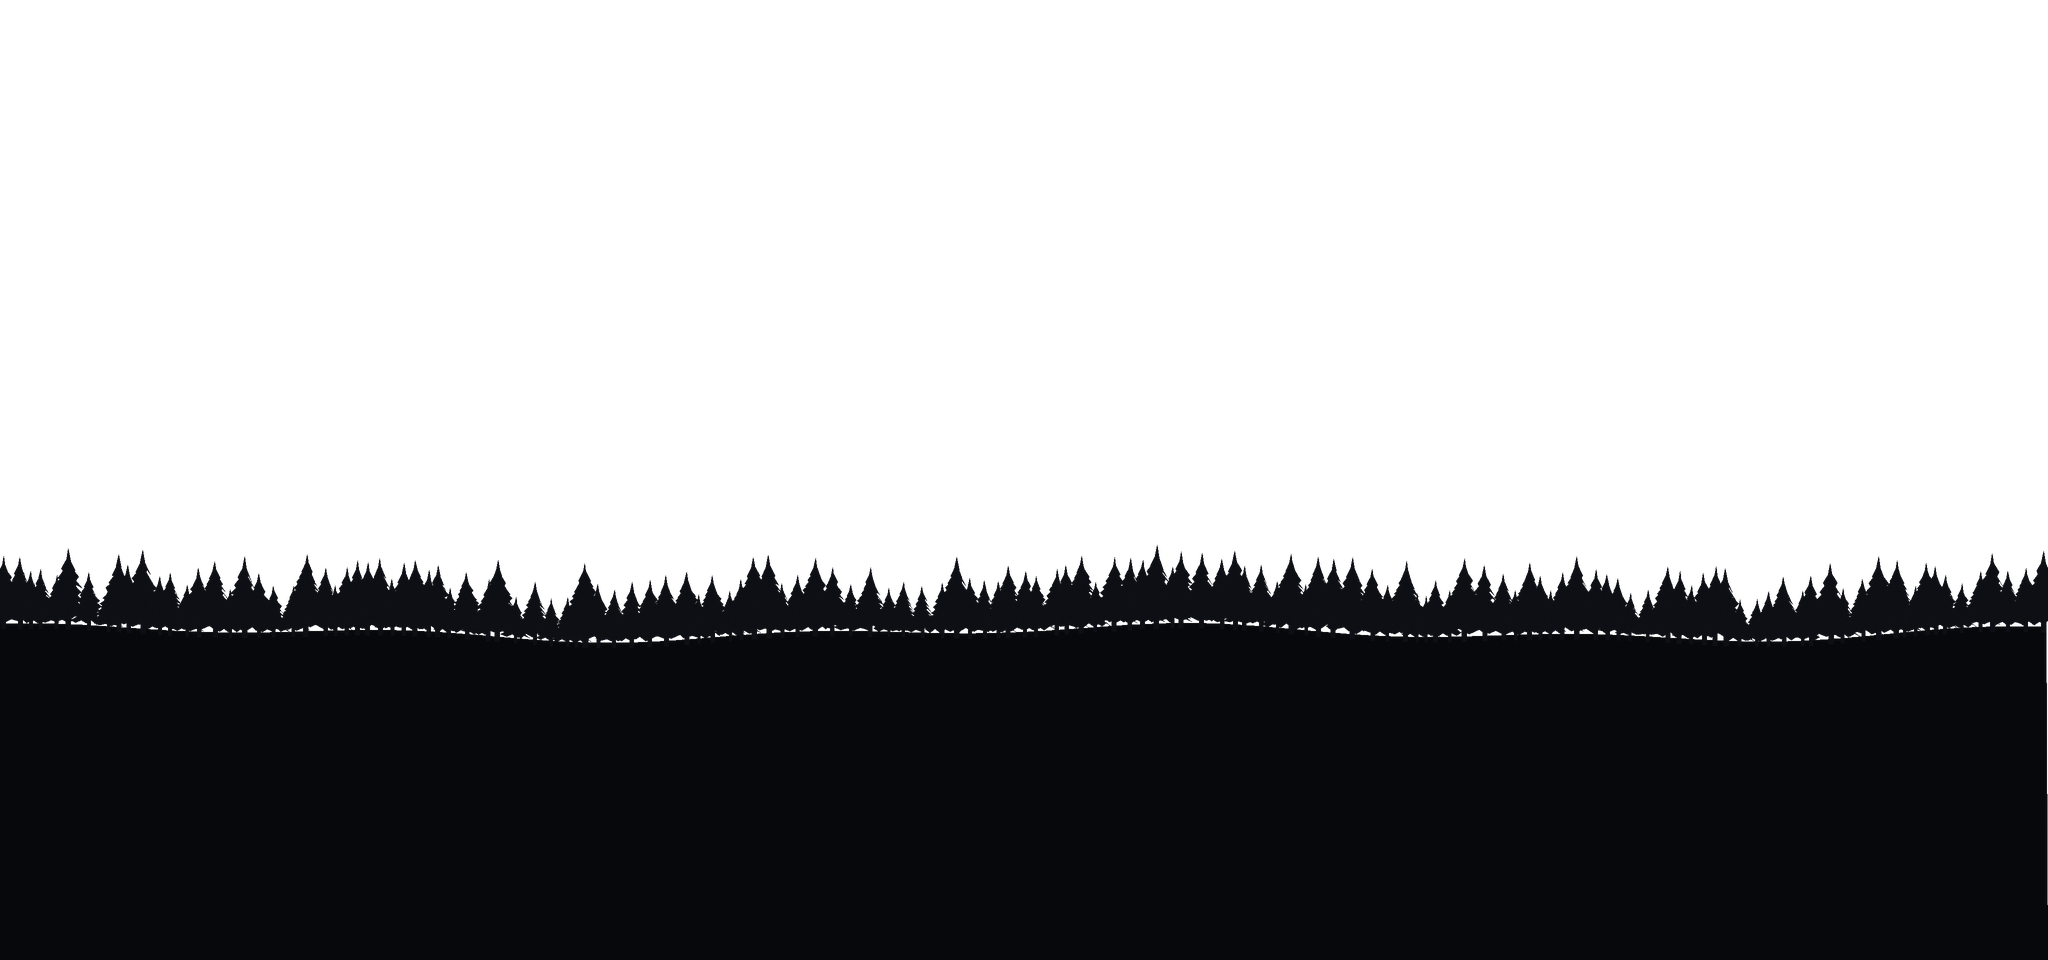
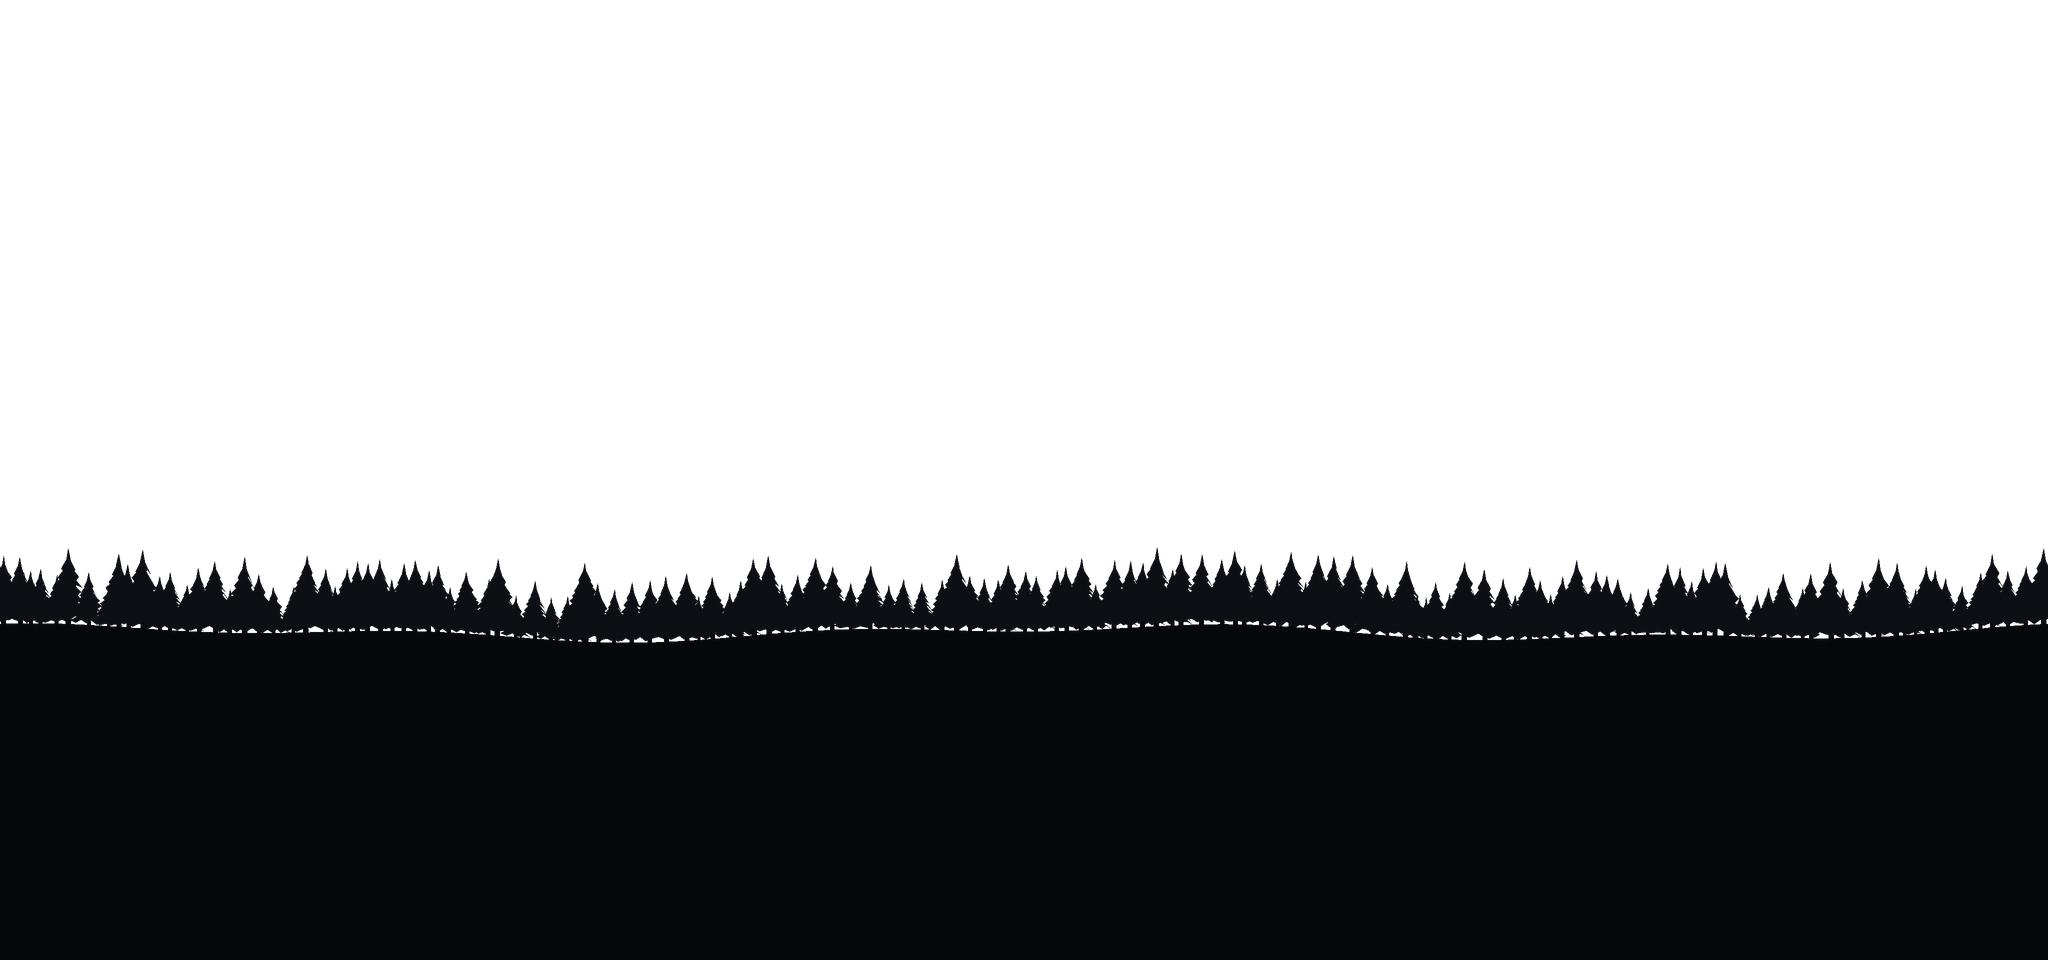
Tło HD: usunięta pionowa kreska na łączeniu i przerywana linia na podnóżu
- ostatnia kolumna tekstur grzbietów była półprzezroczysta (wypełnienie kończyło się przed brzegiem)
- linia podnóża okresowa (bez schodka na łączeniu powtórzeń)
- pnie w kolorze podnóża (bez jasnych kresek na linii podnóża przy pogodzie CLEAR)

diff --git a/prototype/tools/world_hd_backdrop.py b/prototype/tools/world_hd_backdrop.py
@@ -81,10 +81,11 @@ def sky():
     save_rgb(os.path.join(OUT, "sky.png"), np.clip(img, 0, 1))
 
 
-def pine(draw, x, base_y, h, col, rimcol, lean):
-    """Jeden świerk: pień + piętra opadających, postrzępionych gałęzi (współrzędne w pikselach supersamplingu)."""
+def pine(draw, x, base_y, h, col, rimcol, lean, trunk=None):
+    """Jeden świerk: pień + piętra opadających, postrzępionych gałęzi (współrzędne w pikselach supersamplingu).
+    Pień ma kolor podnóża (`trunk`), nie korony — jasne pnie na ciemnym podnóżu układały się w widoczną „przerywaną linię”."""
     tw = max(2.0, h * 0.035)
-    draw.rectangle([x - tw, base_y - h * 0.22, x + tw, base_y + 4], fill=col)
+    draw.rectangle([x - tw, base_y - h * 0.22, x + tw, base_y + 4], fill=trunk if trunk is not None else col)
     tiers = int(rng.integers(8, 13))
     for k in range(tiers):
         t = k / (tiers - 1)
@@ -109,6 +110,7 @@ def b8(c):
 
 def ridge(name, seed_off, base_frac, spacing, h_rng, col, rim, haze, ground=None):
     ground = b8(ground) if ground is not None else b8(col)       # wypełnienie pod linią drzew ciemniejsze niż korony — luki między pniami nie świecą
+    trunk = ground if ground != b8(col) else None
     col, rim = b8(col), b8(rim)
     big = Image.new("RGBA", (W * SS, H * SS), (0, 0, 0, 0))
     dr = ImageDraw.Draw(big)
@@ -116,8 +118,11 @@ def ridge(name, seed_off, base_frac, spacing, h_rng, col, rim, haze, ground=None
     r = np.random.default_rng(87 + seed_off)
     # podnóże: falująca masa
     xs = np.arange(W * SS)
-    hill = base - 6 * SS * np.sin(xs * 0.003 / SS * 2 + seed_off) - 4 * SS * np.sin(xs * 0.008 / SS * 2 + 1.3 * seed_off)
-    dr.polygon([(0, H * SS)] + [(int(x), int(hill[x])) for x in range(0, W * SS, 4)] + [(W * SS - 1, H * SS)], fill=ground)
+    # linia podnóża musi być okresowa (całkowita liczba fal na szerokość) — inaczej na łączeniu powtórzeń robi się schodek
+    ph = 2 * np.pi * xs / (W * SS)
+    hill = base - 6 * SS * np.sin(2 * ph + seed_off) - 4 * SS * np.sin(5 * ph + 1.3 * seed_off)
+    # wypełnienie do x = W·SS włącznie (poza obrazem), inaczej ostatnia kolumna tekstury wychodzi półprzezroczysta → pionowa kreska
+    dr.polygon([(0, H * SS)] + [(int(x), int(hill[min(x, W * SS - 1)])) for x in range(0, W * SS + 4, 4)] + [(W * SS + 4, H * SS)], fill=ground)
     x = float(r.integers(0, spacing))
     while x < W * SS:
         h = r.uniform(*h_rng) * SS
@@ -125,7 +130,7 @@ def ridge(name, seed_off, base_frac, spacing, h_rng, col, rim, haze, ground=None
         for ox in (-W * SS, 0, W * SS):                                      # zawijanie w poziomie
             if -h < x + ox < W * SS + h:
                 # lokalny RNG drzewa używa globalnego `rng` w pine(); ziarno ustala kolejność
-                pine(dr, x + ox, hill[int(np.clip(x, 0, W * SS - 1))] + 3 * SS, h, col, rim, lean)
+                pine(dr, x + ox, hill[int(np.clip(x, 0, W * SS - 1))] + 3 * SS, h, col, rim, lean, trunk)
         x += spacing * SS * r.uniform(0.6, 1.5)
     img = big.resize((W, H), Image.LANCZOS)
     a = np.asarray(img).astype(np.float32) / 255.0

diff --git a/GDD.md b/GDD.md
@@ -843,6 +843,7 @@ Prototyp w `dead-air-87/prototype/` jest vertical slice'em, nie grą. Poniższe 
 | 1.7.110 | 2026-10-10 | **Atmosfera kryjówki (ATMOSPHERE_PLAN.md, F0–F3).** (1) Smugi światła pod lampami (`light_shaft.gd`: stożek z szumem, drobiny kurzu w smudze; LOW wyłączone, MEDIUM statyczne, HIGH animowane). (2) Bloom jasnych źródeł z mip-ów ekranu w `horror_fx.gd` (mnożnik jakości; pod HUD-em). (3) Okludery postaci i cienie lamp dla postaci w pobliżu oraz miękki cień kontaktowy zależny od najbliższej lampy. Kosmetyka, lokalna; pomiar `tools/bench_fx.gd`: HIGH ≈ +1,2 ms na 4K względem LOW. |
 | 1.7.111 | 2026-10-10 | **Atmosfera, F4–F5 (ATMOSPHERE_PLAN.md).** (1) Plan pierwszy z sylwetkami mebli sprawdzono i wycofano (artefakty przy krawędziach kadru). (2) Gradacja per mapa w `horror_fx.gd` (presety `GRADES`): cieplejsza i kontrastowa kryjówka, bardziej nasycone gniazda, zimniejsza Pijawka; płynne przejścia. |
 | 1.7.112 | 2026-10-10 | **Atmosfera, F6–F7 (ATMOSPHERE_PLAN.md).** (1) Odbicie podłogi kryjówki (`floor_reflection.gd`): pas pod podłogą pokazuje przygaszoną, lustrzaną kopię sceny; LOW wyłączone, MEDIUM statyczne, HIGH z lekkim falowaniem („Reduce effects” je zatrzymuje). (2) Meble tła kryjówki (`hub_decor.gd`): stół z krzesłem i stołkiem, regały, szafki, prycze — modele HD z potoku przedmiotów (`items_proc_bake.py`: `table`, `chair`, `stool`, `shelf`, `locker`, `cot`) z mapami normalnych, ustawiane w odstępach między stojakami, warsztatem, radiem i tablicami; kosmetyka bez kolizji, reaguje na światła 2D. |
+| 1.7.113 | 2026-10-10 | **Tło HD: bez szwów i „przerywanej linii”.** (1) Ostatnia kolumna tekstur grzbietów (`ridge_far/mid/near`) wychodziła półprzezroczysta (wypełnienie podnóża kończyło się o piksel przed brzegiem), więc przy powtarzaniu tła widać było pionową kreskę przez całą wysokość masy; wypełnienie sięga teraz brzegu. (2) Linia podnóża nie była okresowa (schodek 1,5–2 px na łączeniu powtórzeń) — teraz ma całkowitą liczbę fal na szerokość. (3) Pnie drzew mają kolor podnóża, nie korony: jasne pnie układały się w przerywany pas na linii podnóża, wyraźny przy pogodzie CLEAR (grzbiety ×4). Generator: `tools/world_hd_backdrop.py`. |
 
 ---
 
